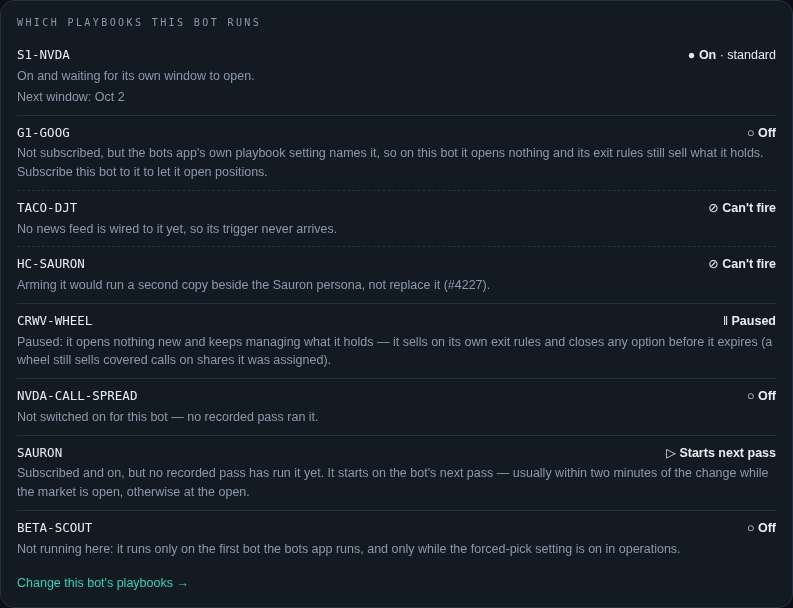
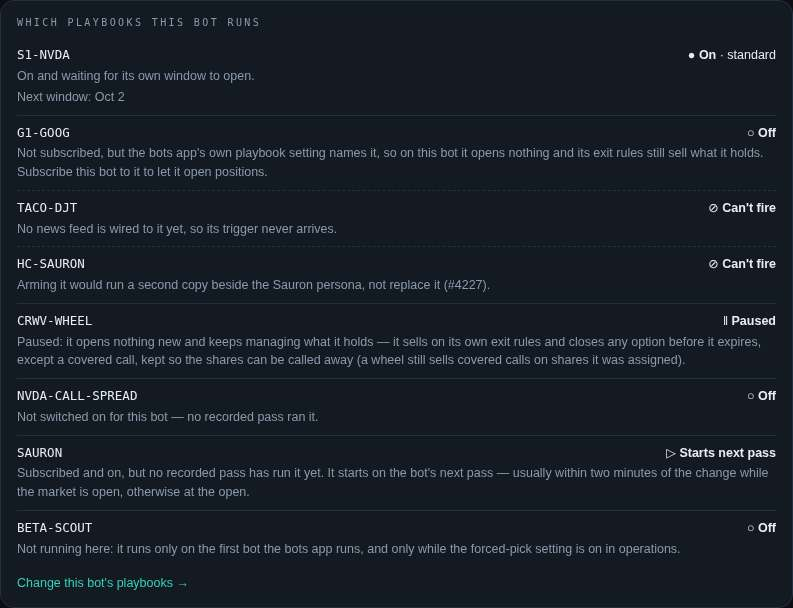
fix(store): draw Paused with one glyph on the Store and the roll call
Summary: the Store's subscription row drew Paused as ○, the glyph the
roll call uses for Off; both now draw ‖ Paused. The roll call's Paused
line also keeps the Store note's covered-call exception.

Why: a reader who goes by glyph, not hue, would read the same symbol as
two different states one tap apart; and "closes any option before it
expires" without the exception misstates a paused wheel's covered call.

Claude-Session: https://claude.ai/code/session_01MyaZisGk9bTGHXNZM7hZog

Changed region(s): [[0.0303, 0.5625, 0.6658, 0.625], [0.6961, 0.5625, 0.8474, 0.625]]

diff --git a/app/src/shell/playbook-subscription-row.tsx b/app/src/shell/playbook-subscription-row.tsx
@@ -14,7 +14,7 @@ import { SubscribeForm } from "./playbook-subscribe-form";
  * #4642's phone order: on or paused · mode · capital · symbols · Pause and Edit, then the rules.
  * An owner who opens a bot's playbooks is asking "what is it running?", so the answer leads.
  *
- * The state is a glyph AND a word: ● On, ○ Paused, ◌ Saved, never trades. Never hue alone, because
+ * The state is a glyph AND a word: ● On, ‖ Paused, ◌ Saved, never trades. Never hue alone, because
  * a standing reader is red/green colourblind.
  *
  * A human account's subscription saved before #4610 is listed honestly. It never traded, because
@@ -63,7 +63,7 @@ function stateOf(sub: SubscriptionView, human: boolean) {
   if (human) return { glyph: "◌", word: "Saved, never trades", key: "idle" };
   return sub.enabled
     ? { glyph: "●", word: "On", key: "on" }
-    : { glyph: "○", word: "Paused", key: "paused" };
+    : { glyph: "‖", word: "Paused", key: "paused" };
 }
 
 export function SubscriptionRow({

diff --git a/src/observatory/bot-heartbeat-view.ts b/src/observatory/bot-heartbeat-view.ts
@@ -169,8 +169,8 @@ const ARMED_REASON = "Checked on every pass; it trades when its own condition ho
  *  `playbook-subscription-row.tsx`), cut to what a roll-call line has room for. */
 const PAUSED_REASON =
   "Paused: it opens nothing new and keeps managing what it holds — it sells on its own exit " +
-  "rules and closes any option before it expires (a wheel still sells covered calls on shares " +
-  "it was assigned).";
+  "rules and closes any option before it expires, except a covered call, kept so the shares can " +
+  "be called away (a wheel still sells covered calls on shares it was assigned).";
 /** Subscribed and on, no pass yet: the poll (30s) picks it up, a pass (15s) runs it, and the
  *  pass reaches this dashboard on a later poll — about two minutes, and only while passes run. */
 const STARTING_REASON =

diff --git a/app/tests/shell/playbook-store-cards.spec.tsx b/app/tests/shell/playbook-store-cards.spec.tsx
@@ -191,7 +191,7 @@ describe("a subscribed card", () => {
   it("says paused with a hollow glyph, and names the whole basket when unfiltered", () => {
     mount(card(BASKET, { mode: "conservative", enabled: false }));
     expect(screen.getByText("Paused").closest("p")).toHaveTextContent(
-      "○ Paused · conservative · uncapped · all 3 symbols",
+      "‖ Paused · conservative · uncapped · all 3 symbols",
     );
     expect(screen.getByRole("button", { name: "Resume" })).toBeInTheDocument();
   });
